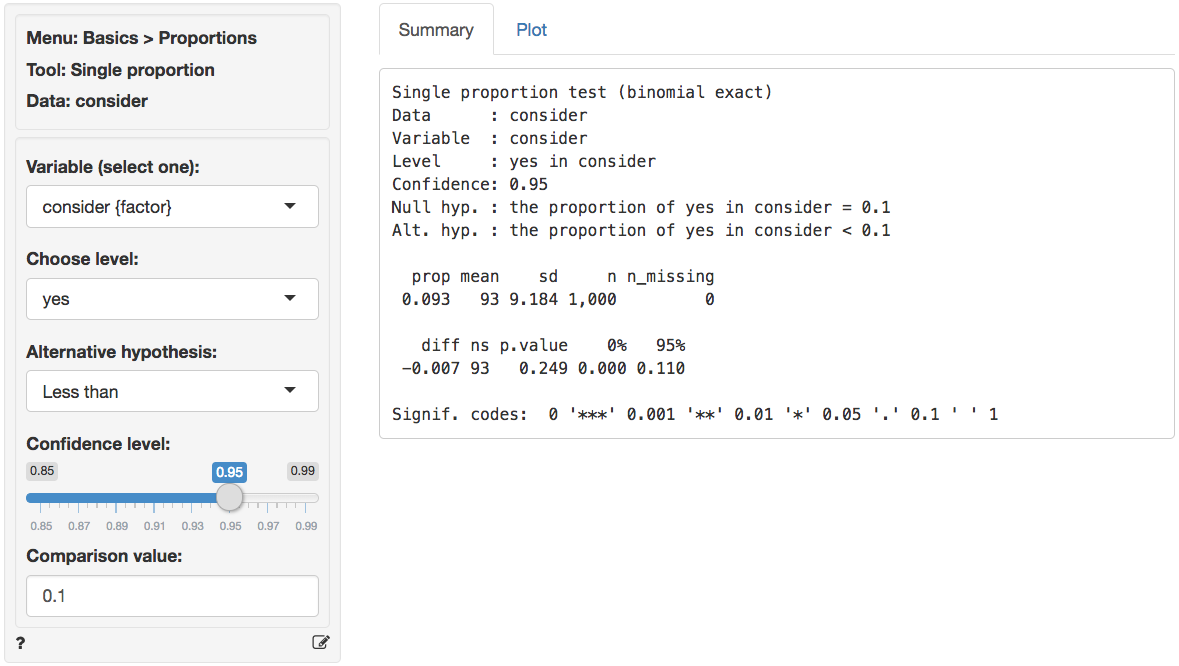
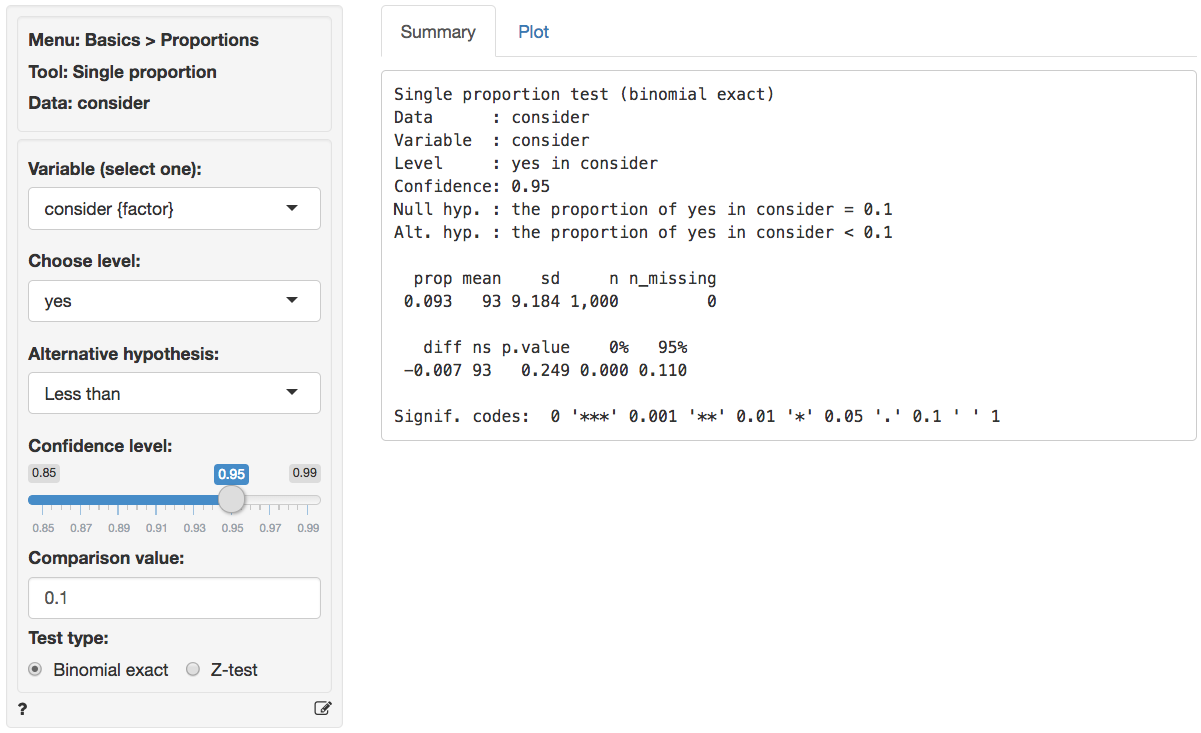
version 0.9.9

diff --git a/inst/app/tools/help/compare_props.md b/inst/app/tools/help/compare_props.md
@@ -25,7 +25,26 @@ The first two blocks of output show basic information about the test (e.g.,. sel
 
 If we check `Show additional statistics` the following output is added:
 
-<p align="center"><img src="figures_basics/compare_props_summary_additional.png"></p>
+<pre>
+Pairwise proportion comparisons
+Data      : titanic 
+Variables : pclass, survived 
+Level     : Yes in survived 
+Confidence: 0.95 
+Adjustment: None 
+
+ pclass Yes  No   n     p    se    me
+    1st 179 103 282 0.635 0.029 0.056
+    2nd 115 146 261 0.441 0.031 0.060
+    3rd 131 369 500 0.262 0.020 0.039
+
+ Null hyp.   Alt. hyp.              diff  p.value chisq.value df 2.5%  97.5%    
+ 1st = 2nd   1st not equal to 2nd   0.194 < .001  20.576      1  0.112 0.277 ***
+ 1st = 3rd   1st not equal to 3rd   0.373 < .001  104.704     1  0.305 0.441 ***
+ 2nd = 3rd   2nd not equal to 3rd   0.179 < .001  25.008      1  0.107 0.250 ***
+
+Signif. codes:  0 '***' 0.001 '**' 0.01 '*' 0.05 '.' 0.1 ' ' 1
+</pre>
 
 * `chisq.value` is the chi-squared statistic associated with `diff` that we can compare to a chi-squared distribution. For additional discussion on how this metric is calculated see the help file in _Basics > Tables > Cross-tabs_. For each combination the equivalent of a 2X2 cross-tab is calculated.
 * `df` is the degrees of freedom associated with each statistical test (1).
@@ -76,10 +95,10 @@ The 95% confidence interval is **0.112** to **0.277**. If repeated samples were 
 
 ### Report > Rmd
 
-Add code to <a href="https://radiant-rstats.github.io/docs/data/report.html" target="_blank">_Report > Rmd_</a> to (re)create the analysis by clicking the <i title="report results" class="fa fa-edit"></i> icon on the bottom left of your screen or by pressing `ALT-enter` on your keyboard. 
+Add code to <a href="https://radiant-rstats.github.io/docs/data/report_rmd.html" target="_blank">_Report > Rmd_</a> to (re)create the analysis by clicking the <i title="report results" class="fa fa-edit"></i> icon on the bottom left of your screen or by pressing `ALT-enter` on your keyboard. 
 
 If a plot was created it can be customized using `ggplot2` commands (e.g., `plot(result, plots = "bar", custom = TRUE) + labs(title = "Compare proportions")`). See <a href="https://radiant-rstats.github.io/docs/data/visualize.html" target="_blank">_Data > Visualize_</a> for details.
 
 ### R-functions
 
-For an overview of related R-functions used by Radiant to evaluate proportions see <a href = "https://radiant-rstats.github.io/radiant.basics/reference/index.html#section-basics-proportions" target="_blank">_Basics > Proportions</a>
+For an overview of related R-functions used by Radiant to evaluate proportions see <a href = "https://radiant-rstats.github.io/radiant.basics/reference/index.html#section-basics-proportions" target="_blank">_Basics > Proportions_</a>

diff --git a/inst/app/tools/help/compare_means.md b/inst/app/tools/help/compare_means.md
@@ -29,7 +29,26 @@ The first two blocks of output show basic information about the test (e.g.,. sel
 
 If we check `Show additional statistics` the following output is added:
 
-<p align="center"><img src="figures_basics/compare_means_summary_additional.png"></p>
+<pre>
+Pairwise mean comparisons (t-test)
+Data      : salary 
+Variables : rank, salary 
+Samples   : independent 
+Confidence: 0.95 
+Adjustment: None 
+
+      rank        mean   n         sd        se        me
+  AsstProf  80,775.985  67  8,174.113   998.627 1,993.823
+ AssocProf  93,876.438  64 13,831.700 1,728.962 3,455.056
+      Prof 126,772.109 266 27,718.675 1,699.541 3,346.322
+
+ Null hyp.              Alt. hyp.              diff      p.value se       t.value df      0%   95%           
+ AsstProf = AssocProf   AsstProf < AssocProf   -13100.45 < .001  1996.639  -6.561 101.286 -Inf  -9785.958 ***
+ AsstProf = Prof        AsstProf < Prof        -45996.12 < .001  1971.217 -23.334 324.340 -Inf -42744.474 ***
+ AssocProf = Prof       AssocProf < Prof       -32895.67 < .001  2424.407 -13.569 199.325 -Inf -28889.256 ***
+
+Signif. codes:  0 '***' 0.001 '**' 0.01 '*' 0.05 '.' 0.1 ' ' 1
+</pre>
 
 * `se` is the standard error (i.e., the standard deviation of the sampling distribution of `diff`)
 * `t.value` is the _t_ statistic associated with `diff` that we can compare to a t-distribution (i.e., `diff` / `se`)
@@ -76,10 +95,10 @@ The 95% confidence bound is **-9785.958**. If repeated samples were taken and th
 
 ### Report > Rmd
 
-Add code to <a href="https://radiant-rstats.github.io/docs/data/report.html" target="_blank">_Report > Rmd_</a> to (re)create the analysis by clicking the <i title="report results" class="fa fa-edit"></i> icon on the bottom left of your screen or by pressing `ALT-enter` on your keyboard. 
+Add code to <a href="https://radiant-rstats.github.io/docs/data/report_rmd.html" target="_blank">_Report > Rmd_</a> to (re)create the analysis by clicking the <i title="report results" class="fa fa-edit"></i> icon on the bottom left of your screen or by pressing `ALT-enter` on your keyboard. 
 
 If a plot was created it can be customized using `ggplot2` commands (e.g., `plot(result, plots = "scatter", custom = TRUE) + labs(title = "Compare means")`). See <a href="https://radiant-rstats.github.io/docs/data/visualize.html" target="_blank">_Data > Visualize_</a> for details.
 
 ### R-functions
 
-For an overview of related R-functions used by Radiant to evaluate means see <a href = "https://radiant-rstats.github.io/radiant.basics/reference/index.html#section-basics-means" target="_blank">_Basics > Means</a>
+For an overview of related R-functions used by Radiant to evaluate means see <a href = "https://radiant-rstats.github.io/radiant.basics/reference/index.html#section-basics-means" target="_blank">_Basics > Means_</a>

diff --git a/inst/app/tools/help/cross_tabs.md b/inst/app/tools/help/cross_tabs.md
@@ -37,7 +37,7 @@ In other words, there seem to be fewer low income respondents that read WSJ and 
 
 ### Report > Rmd
 
-Add code to <a href="https://radiant-rstats.github.io/docs/data/report.html" target="_blank">_Report > Rmd_</a> to (re)create the analysis by clicking the <i title="report results" class="fa fa-edit"></i> icon on the bottom left of your screen or by pressing `ALT-enter` on your keyboard. 
+Add code to <a href="https://radiant-rstats.github.io/docs/data/report_rmd.html" target="_blank">_Report > Rmd_</a> to (re)create the analysis by clicking the <i title="report results" class="fa fa-edit"></i> icon on the bottom left of your screen or by pressing `ALT-enter` on your keyboard. 
 
 If a plot was created it can be customized using `ggplot2` commands (e.g., `plot(result, check = "observed", custom = TRUE) + labs(y = "Percentage")`). See <a href="https://radiant-rstats.github.io/docs/data/visualize.html" target="_blank">_Data > Visualize_</a> for details.
 
@@ -47,4 +47,4 @@ When one or more expected values are small (e.g., 5 or less) the p.value for the
 
 ### R-functions
 
-For an overview of related R-functions used by Radiant to evaluate associations between categorical variables see <a href = "https://radiant-rstats.github.io/radiant.basics/reference/index.html#section-basics-tables" target="_blank">_Basics > Tables</a>
+For an overview of related R-functions used by Radiant to evaluate associations between categorical variables see <a href = "https://radiant-rstats.github.io/radiant.basics/reference/index.html#section-basics-tables" target="_blank">_Basics > Tables_</a>

diff --git a/inst/app/tools/help/goodness.md b/inst/app/tools/help/goodness.md
@@ -32,7 +32,7 @@ In addition to the numerical output provided in the _Summary_ tab we can evaluat
 
 ### Report > Rmd
 
-Add code to <a href="https://radiant-rstats.github.io/docs/data/report.html" target="_blank">_Report > Rmd_</a> to (re)create the analysis by clicking the <i title="report results" class="fa fa-edit"></i> icon on the bottom left of your screen or by pressing `ALT-enter` on your keyboard. 
+Add code to <a href="https://radiant-rstats.github.io/docs/data/report_rmd.html" target="_blank">_Report > Rmd_</a> to (re)create the analysis by clicking the <i title="report results" class="fa fa-edit"></i> icon on the bottom left of your screen or by pressing `ALT-enter` on your keyboard. 
 
 If a plot was created it can be customized using `ggplot2` commands (e.g., `plot(result, check = "observed", custom = TRUE) + labs(y = "Percentage")`). See <a href="https://radiant-rstats.github.io/docs/data/visualize.html" target="_blank">_Data > Visualize_</a> for details.
 
@@ -42,4 +42,4 @@ When one or more expected values are small (e.g., 5 or less) the p.value for the
 
 ### R-functions
 
-For an overview of related R-functions used by Radiant to evaluate a discrete probability distribution see <a href = "https://radiant-rstats.github.io/radiant.basics/reference/index.html#section-basics-tables" target="_blank">_Basics > Tables</a>
+For an overview of related R-functions used by Radiant to evaluate a discrete probability distribution see <a href = "https://radiant-rstats.github.io/radiant.basics/reference/index.html#section-basics-tables" target="_blank">_Basics > Tables_</a>

diff --git a/inst/app/tools/help/correlation.md b/inst/app/tools/help/correlation.md
@@ -37,11 +37,11 @@ Although we generally use the correlation matrix, you can also show the covarian
 
 ### Report > Rmd
 
-Add code to <a href="https://radiant-rstats.github.io/docs/data/report.html" target="_blank">_Report > Rmd_</a> to (re)create the analysis by clicking the <i title="report results" class="fa fa-edit"></i> icon on the bottom left of your screen or by pressing `ALT-enter` on your keyboard. 
+Add code to <a href="https://radiant-rstats.github.io/docs/data/report_rmd.html" target="_blank">_Report > Rmd_</a> to (re)create the analysis by clicking the <i title="report results" class="fa fa-edit"></i> icon on the bottom left of your screen or by pressing `ALT-enter` on your keyboard. 
 
 By default the correlation plot samples 1,000 data points. To include all data points use `plot(result, n = -1)`
 To add, for example, a title to the plot use `title(main = "Correlation plot\n\n")`. See the <a href="https://cran.r-project.org/doc/manuals/R-intro.html#Low_002dlevel-plotting-commands" target="_blank">R graphics</a> documentation for additional information.
 
 ### R-functions
 
-For an overview of related R-functions used by Radiant to evaluate correlations see <a href = "https://radiant-rstats.github.io/radiant.basics/reference/index.html#section-basics-tables" target="_blank">_Basics > Tables</a>
+For an overview of related R-functions used by Radiant to evaluate correlations see <a href = "https://radiant-rstats.github.io/radiant.basics/reference/index.html#section-basics-tables" target="_blank">_Basics > Tables_</a>

diff --git a/inst/app/tools/help/single_prop.md b/inst/app/tools/help/single_prop.md
@@ -63,10 +63,10 @@ The 95% confidence bound is **0.11**. If repeated samples were taken and the 95%
 
 ### Report > Rmd
 
-Add code to <a href="https://radiant-rstats.github.io/docs/data/report.html" target="_blank">_Report > Rmd_</a> to (re)create the analysis by clicking the <i title="report results" class="fa fa-edit"></i> icon on the bottom left of your screen or by pressing `ALT-enter` on your keyboard. 
+Add code to <a href="https://radiant-rstats.github.io/docs/data/report_rmd.html" target="_blank">_Report > Rmd_</a> to (re)create the analysis by clicking the <i title="report results" class="fa fa-edit"></i> icon on the bottom left of your screen or by pressing `ALT-enter` on your keyboard. 
 
 If a plot was created it can be customized using `ggplot2` commands (e.g., `plot(result, plots = "bar", custom = TRUE) + labs(y = "Percentage")`). See <a href="https://radiant-rstats.github.io/docs/data/visualize.html" target="_blank">_Data > Visualize_</a> for details.
 
 ### R-functions
 
-For an overview of related R-functions used by Radiant to evaluate proportions see <a href = "https://radiant-rstats.github.io/radiant.basics/reference/index.html#section-basics-proportions" target="_blank">_Basics > Proportions</a>
+For an overview of related R-functions used by Radiant to evaluate proportions see <a href = "https://radiant-rstats.github.io/radiant.basics/reference/index.html#section-basics-proportions" target="_blank">_Basics > Proportions_</a>

diff --git a/inst/app/tools/help/single_mean.md b/inst/app/tools/help/single_mean.md
@@ -57,10 +57,10 @@ The 5% confidence bound is **1897.233**. If repeated samples were taken and the 
 
 ### Report > Rmd
 
-Add code to <a href="https://radiant-rstats.github.io/docs/data/report.html" target="_blank">_Report > Rmd_</a> to (re)create the analysis by clicking the <i title="report results" class="fa fa-edit"></i> icon on the bottom left of your screen or by pressing `ALT-enter` on your keyboard. 
+Add code to <a href="https://radiant-rstats.github.io/docs/data/report_rmd.html" target="_blank">_Report > Rmd_</a> to (re)create the analysis by clicking the <i title="report results" class="fa fa-edit"></i> icon on the bottom left of your screen or by pressing `ALT-enter` on your keyboard. 
 
 If a plot was created it can be customized using `ggplot2` commands (e.g., `plot(result, plots = "hist", custom = TRUE) + labs(title = "Histogram")`). See <a href="https://radiant-rstats.github.io/docs/data/visualize.html" target="_blank">_Data > Visualize_</a> for details.
 
 ### R-functions
 
-For an overview of related R-functions used by Radiant to evaluate means see <a href = "https://radiant-rstats.github.io/radiant.basics/reference/index.html#section-basics-means" target="_blank">_Basics > Means</a>
+For an overview of related R-functions used by Radiant to evaluate means see <a href = "https://radiant-rstats.github.io/radiant.basics/reference/index.html#section-basics-means" target="_blank">_Basics > Means_</a>

diff --git a/NEWS.md b/NEWS.md
@@ -1,8 +1,24 @@
-# radiant.data 0.9.7.0
+# radiant.basics 0.9.9.0
+
+* Various fixes to address (soft) deprecations in dplyr 0.8.0
+
+# radiant.basics 0.9.8.0
+
+* Option to pass additional arguments to `shiny::runApp` when starting radiant such as the port to use. For example, radiant.basics::radiant.basics("https://github.com/radiant-rstats/docs/raw/gh-pages/examples/demo-dvd-rnd.state.rda", port = 8080) 
+* Catch settings where the number of levels in a comparison of means or proportions is the same as the number of rows in the data (e.g., grouping by a unique identifier)
+* Show significant stars for `Compare means` and `Compare proportions` even when `Show additional output` is not selected
+* `ci` in summary table `compare_means` and `compare_props` should be margin of err (`me`)
+* Option to use `Z-test` in `single_prop`
+
+# radiant.basics 0.9.7.2
+
+* Load a state file on startup by providing a (relative) file path or a url
+
+# radiant.basics 0.9.7.0
 
 * Using [`shinyFiles`](https://github.com/thomasp85/shinyFiles) to provide convenient access to data located on a server
 
-# radiant.design 0.9.5.0
+# radiant.basics 0.9.5.0
 
 ## Major changes
 

diff --git a/inst/app/tools/help/clt.md b/inst/app/tools/help/clt.md
@@ -16,4 +16,4 @@ To generate samples select a distribution from the `Distribution` dropdown and a
 
 ### R-functions
 
-For an overview of related R-functions used by Radiant for probability calculations see <a href = "https://radiant-rstats.github.io/radiant.basics/reference/index.html#section-basics-probability" target="_blank">_Basics > Probability</a>
+For an overview of related R-functions used by Radiant for probability calculations see <a href = "https://radiant-rstats.github.io/radiant.basics/reference/index.html#section-basics-probability" target="_blank">_Basics > Probability_</a>

diff --git a/inst/app/tools/help/prob_calc.md b/inst/app/tools/help/prob_calc.md
@@ -55,4 +55,4 @@ If a plot was created it can be customized using `ggplot2` commands (e.g., `plot
 
 ### R-functions
 
-For an overview of related R-functions used by Radiant for probability calculations see <a href = "https://radiant-rstats.github.io/radiant.basics/reference/index.html#section-basics-probability" target="_blank">_Basics > Probability</a>
+For an overview of related R-functions used by Radiant for probability calculations see <a href = "https://radiant-rstats.github.io/radiant.basics/reference/index.html#section-basics-probability" target="_blank">_Basics > Probability_</a>
